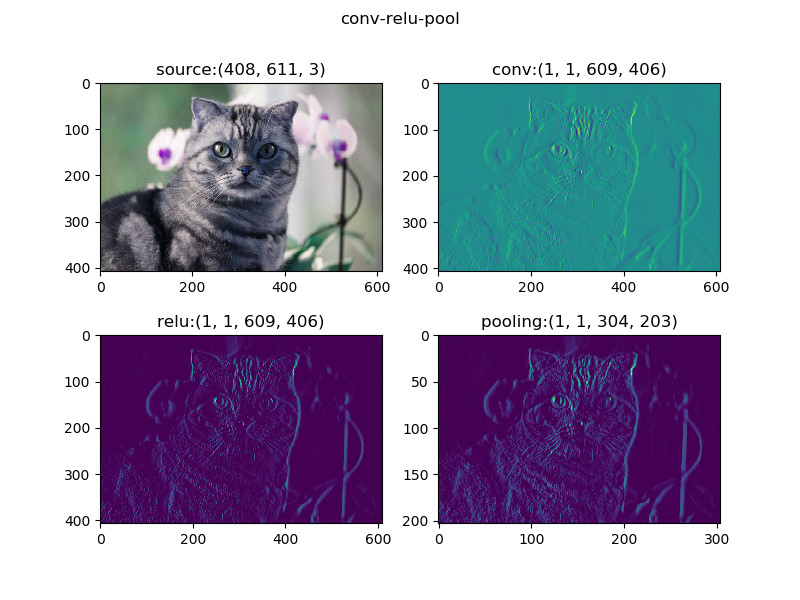
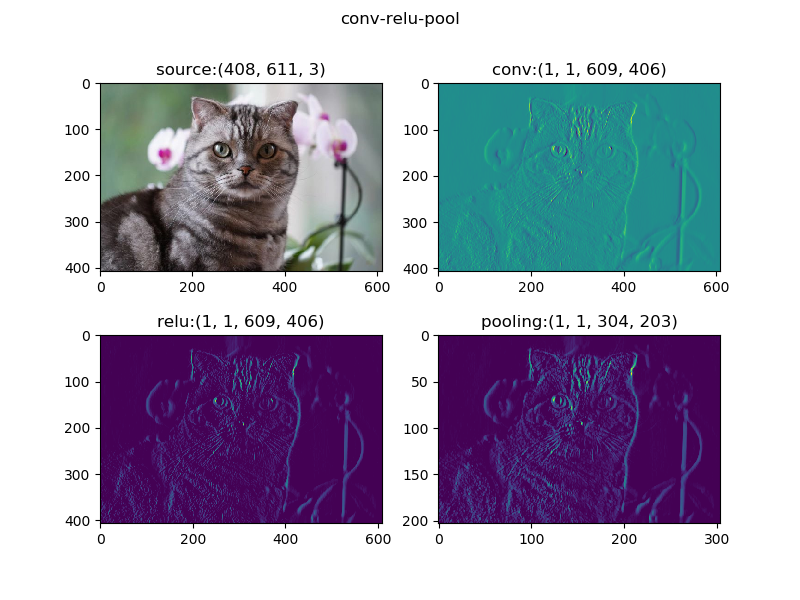
nnh

diff --git a/B-教学案例与实践/B6-神经网络基本原理简明教程/SourceCode/ch17-CNN/Level0_KnowCNN.py b/B-教学案例与实践/B6-神经网络基本原理简明教程/SourceCode/ch17-CNN/Level0_KnowCNN.py
@@ -13,24 +13,34 @@ from MiniFramework.HyperParameters_4_2 import *
 from MiniFramework.jit_utility import *
 
 cat_pic = "../../Data/cat.png"
-car_pic = "../../Data/car.png"
+#car_pic = "../../Data/car.png"
+car_pic = "../../Data/girl.jpg"
+
+def normalize(x, max_value=1):
+    min = np.min(x)
+    max = np.max(x)
+    x_n = (x - min)/(max - min)*max_value
+    return x_n
 
 def try_filters(file_name):
     img = cv2.imread(file_name)
-    img2 = cv2.cvtColor(img, cv2.COLOR_RGB2GRAY)
+    img1=img[:,:,[2,1,0]]
+    #plt.imshow(img2)
+    #plt.show()
+    img2 = cv2.cvtColor(img1, cv2.COLOR_RGB2GRAY)
     batch_size = 1
     input_channel = 1
     (height, width) = img2.shape
     FH = 3
     FW = 3
     print(img2.shape)
-    data = np.transpose(img2, axes=(1,0)).reshape((1,1,width,height))
+    data = img2.reshape((1,1,height,width))
     hp = HyperParameters_4_2(
         0.1, 10, batch_size,
         net_type=NetType.MultipleClassifier,
         init_method=InitialMethod.Xavier,
         optimizer_name=OptimizerName.Momentum)
-    conv = ConvLayer((1,width,height),(1,FH,FW),(1,1),hp)
+    conv = ConvLayer((1,height,width), (1,FH,FW), (1,1), hp)
     conv.initialize("know_cnn", "name")
     
     filters = [
@@ -52,9 +62,9 @@ def try_filters(file_name):
         np.array([0,0,0,
                   -1,2,-1,
                   0,0,0]),          # horizontal edge
-        np.array([0.06,0.125,0.06,
-                  0.125,0.25,0.125,
-                  0.06,0.125,0.06]),    # blur
+        np.array([0.11,0.11,0.11,
+                  0.11,0.11,0.11,
+                  0.11,0.11,0.11]),    # blur
         np.array([-1,-2,-1,
                   0,0,0,
                   1,2,1]),          # sobel y
@@ -65,12 +75,12 @@ def try_filters(file_name):
     filters_name = ["sharpness", "vertical edge", "surround", "sobel x edge", "nothing", "horizontal edge", "blur", "sobel y edge", "embossing"]
 
     fig, ax = plt.subplots(nrows=3, ncols=3, figsize=(9,9))
-    z = []
     for i in range(len(filters)):
         filter = np.repeat(filters[i], input_channel).reshape(batch_size, input_channel,FH,FW)
-        conv.set_filter(filter, None)
-        z.append(conv.forward(data))
-        ax[i//3, i%3].imshow(z[i][0,0].T)
+        conv.set_filter(filter, np.array([10]))
+        z = conv.forward(data)
+        #z = normalize(z, 255)
+        ax[i//3, i%3].imshow(z[0,0], cmap='gray')
         ax[i//3, i%3].set_title(filters_name[i])
     plt.suptitle("try filters")
     plt.show()
@@ -103,7 +113,7 @@ def conv_relu_pool():
     z3 = pool.forward(z2)
 
     fig, ax = plt.subplots(nrows=2, ncols=2, figsize=(8,6))
-    ax[0,0].imshow(img)
+    ax[0,0].imshow(img[:,:,[2,1,0]])
     ax[0,0].set_title("source:" + str(img.shape))
     ax[0,1].imshow(z1[0,0].T)
     ax[0,1].set_title("conv:" + str(z1.shape))

diff --git a/B-教学案例与实践/B6-神经网络基本原理简明教程/Step8 - CNN/17.7-经典卷积神经网络模型.md b/B-教学案例与实践/B6-神经网络基本原理简明教程/Step8 - CNN/17.7-经典卷积神经网络模型.md
@@ -2,6 +2,56 @@ Copyright © Microsoft Corporation. All rights reserved.
   适用于[License](https：//github.com/Microsoft/ai-edu/blob/master/LICENSE.md)版权许可
 
 
-典型网络讲解 如LeNet, AlexNet, ResNet等 VGG16
-
 CV基本知识
+
+
+
+## 17.7 卷积神经网络发展简史
+
+在卷积网络的短暂发展史上，有很多著名的网络模型：
+
+- LeNet (1990s)
+
+<img src="../Images/17/Net_LeNet.png">
+
+【图片来源：http://yann.lecun.com/exdb/publis/pdf/lecun-01a.pdf 】
+
+- Incubation
+- AlexNet (2012 NIPS)
+
+<img src="../Images/17/Net_AlexNet.png">
+
+【图片来源：https://papers.nips.cc/paper/4824-imagenet-classification-with-deep-convolutional-neural-networks.pdf 】
+
+- ZFNet (2014 ECCV)
+
+<img src="../Images/17/Net_ZFNet.png">
+
+【图片来源：https://arxiv.org/pdf/1311.2901v3.pdf 】
+
+
+- GoogLeNet (2014)
+
+<img src="../Images/17/Net_GoogleNet.png">
+
+<img src="../Images/17/Net_GoogleNet_Inception.png">
+
+<img src="../Images/17/Net_GoogleNet_Table.png">
+
+
+
+【图片来源：https://arxiv.org/pdf/1409.4842.pdf 】
+
+- VGGNet (2015 ICLR)
+
+<img src="../Images/17/Net_Vgg16.png">
+
+- ResNets (2015 ILSVRC)
+
+<img src="../Images/17/Net_ResNet.png">
+
+【图片来源：https://arxiv.org/abs/1512.03385 】
+
+
+- DenseNet (2017 CVPR)
+

diff --git a/B-教学案例与实践/B6-神经网络基本原理简明教程/Step1 - BasicKnowledge/01.0-神经网络的基本工作原理.md b/B-教学案例与实践/B6-神经网络基本原理简明教程/Step1 - BasicKnowledge/01.0-神经网络的基本工作原理.md
@@ -270,7 +270,7 @@ $$a = \frac{1}{1+e^{-z}}=\frac{1}{1+e^{-(wx+b)}}$$
 
 对于图像类的机器学习问题，最有效的就是卷积神经网络。
 
-<img src="..\Images\1\cnn.jpg" width="600">
+<img src="..\Images\17\conv_net.png">
 
 2. 循环神经网络 RNN (Recurrent Neural Networks)
 
